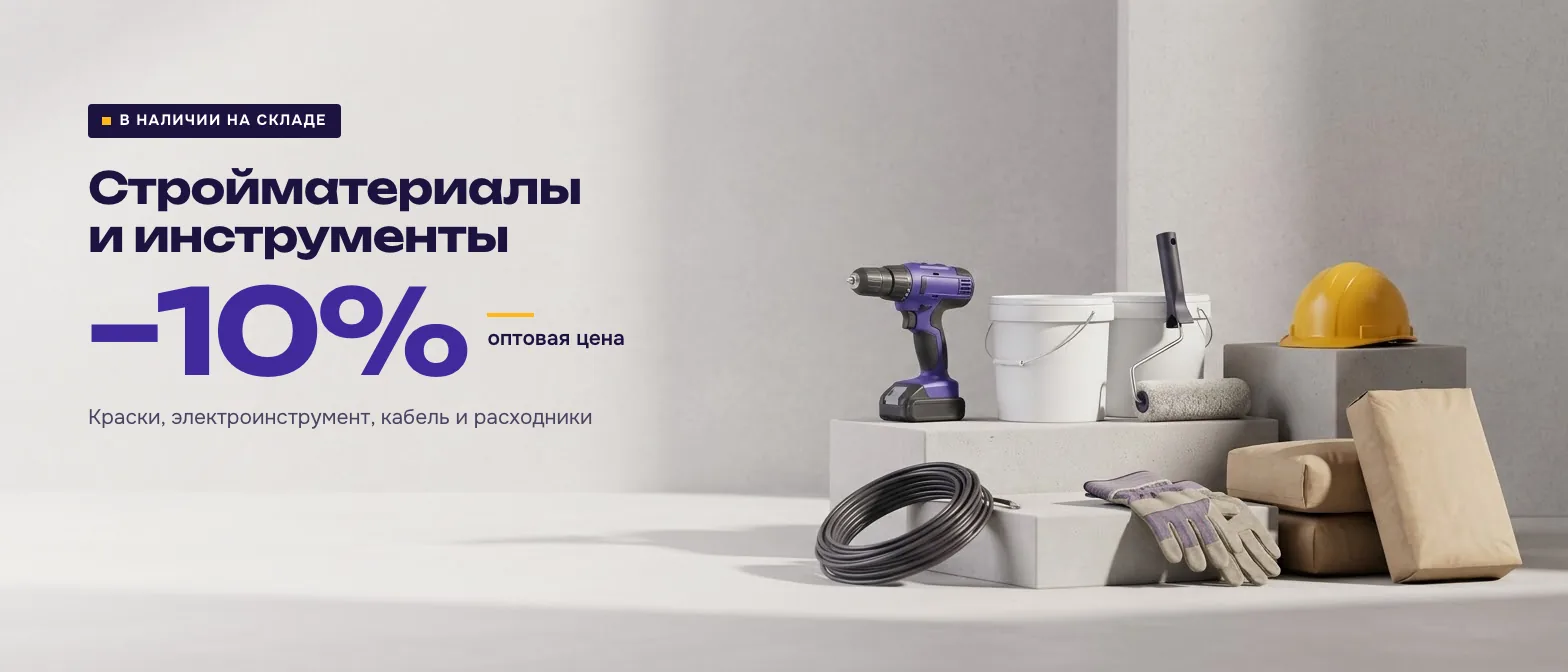
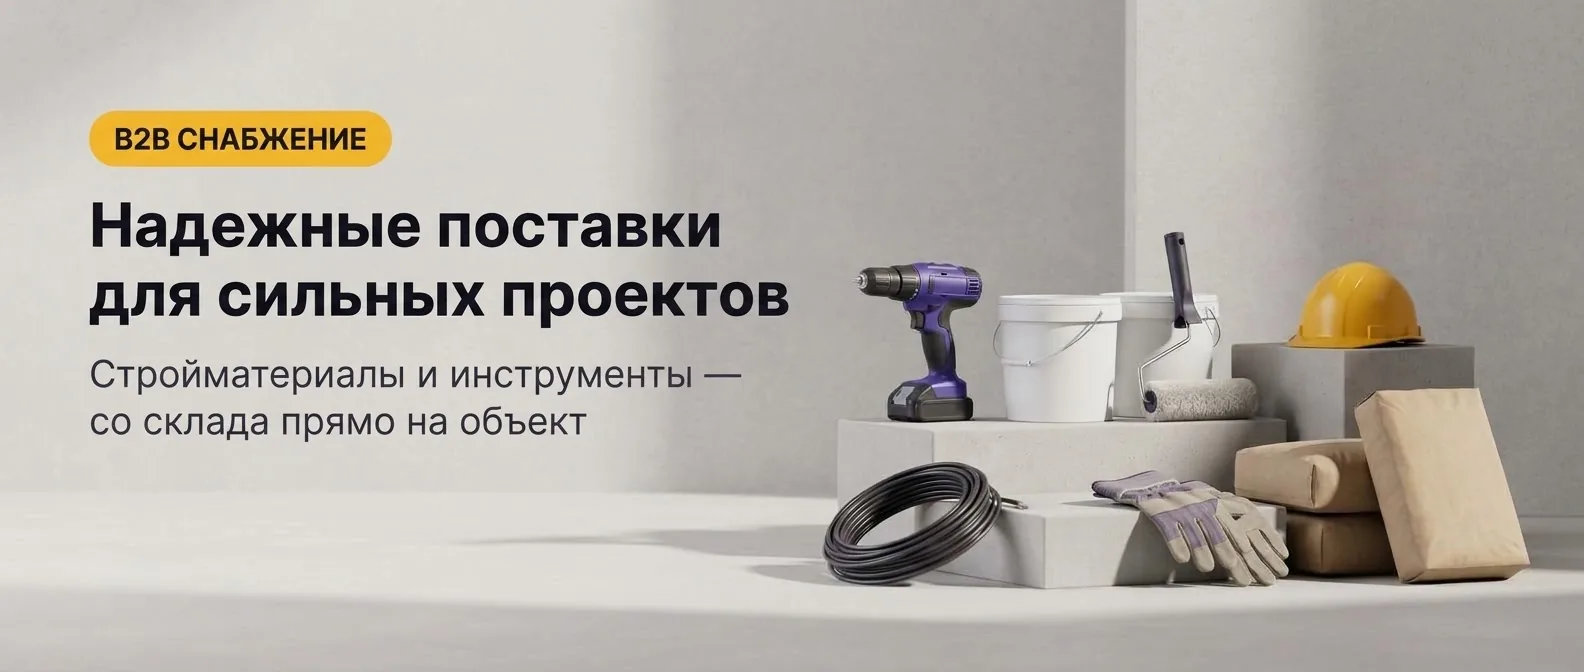
Ruscha bannerlar yangilandi, Yangi yil lentasi ruschada ham chiqadi

diff --git a/index.html b/index.html
@@ -640,8 +640,8 @@ header.hd{box-shadow:0 1px 0 var(--border-subtle)}
 .promo-cta{position:absolute;left:5.6%;bottom:13.4%;display:inline-flex;align-items:center;padding:.72em 1.3em;border-radius:12px;background:#FFB71B;color:#161324;font-weight:700;font-size:clamp(13px,1.5cqw,19px);line-height:1.2;text-decoration:none;box-shadow:0 8px 20px -8px rgba(0,0,0,.45);transition:transform .2s,box-shadow .2s,background .2s}
 .promo-cta:hover{background:#FFC444;transform:translateY(-2px);box-shadow:0 12px 24px -10px rgba(0,0,0,.55)}
 .promo-cta:focus-visible{outline:3px solid #fff;outline-offset:2px}
-/* Yangi yil slaydi: rasm ustida hilpiraydigan lenta (SVG, SMIL). Ruscha rasmda o'z yozuvi bor, shuning uchun faqat UZ da */
-.ny-ribbon{position:absolute;inset:0;width:100%;height:100%;pointer-events:none}.ny-ribbon.m{display:none}.ny-ribbon text{font-family:var(--f-display);font-weight:700;letter-spacing:2px;fill:#1C1340}html[lang="ru"] .ny-ribbon{display:none!important}
+/* Yangi yil slaydi: rasm ustida hilpiraydigan lenta (SVG, SMIL). yozuvi tilga qarab: .uz / .ru */
+.ny-ribbon{position:absolute;inset:0;width:100%;height:100%;pointer-events:none}.ny-ribbon.m{display:none}.ny-ribbon text{font-family:var(--f-display);font-weight:700;letter-spacing:2px;fill:#1C1340}.ny-ribbon .ru,html[lang="ru"] .ny-ribbon .uz{display:none}html[lang="ru"] .ny-ribbon .ru{display:inline}
 .ps-arrow{position:absolute;top:50%;z-index:2;width:46px;height:46px;margin-top:-23px;border:0;border-radius:50%;display:grid;place-items:center;background:rgba(255,255,255,.92);color:#161324;box-shadow:0 6px 18px -6px rgba(22,19,36,.35);cursor:pointer;transition:transform .2s,background .2s}
 .ps-arrow svg{width:20px;height:20px;fill:none;stroke:currentColor;stroke-width:2.4;stroke-linecap:round;stroke-linejoin:round}
 .ps-arrow.prev{left:16px}.ps-arrow.next{right:16px}
@@ -652,7 +652,7 @@ header.hd{box-shadow:0 1px 0 var(--border-subtle)}
 .ps-dots button[aria-current="true"]{width:22px;background:#412A9D}
 @media (hover:none){.ps-arrow{display:none}}
 @media (max-width:980px){.hh{gap:26px}.hh-l{display:block}.hh .ctas{margin-top:24px;justify-content:flex-start}.hh-points{justify-content:flex-start}}
-@media (max-width:640px){.hx-hero{padding:16px 0 16px}.promo-slider{aspect-ratio:4/5}.promo-cta{left:var(--ml,0);right:var(--mr,0);top:var(--mt,47%);bottom:auto;width:max-content;margin-inline:auto;padding:7px 13px;font-size:12.5px;border-radius:10px}html[lang="ru"] .promo-cta{left:6.9%;right:auto;margin:0;top:48.6%}html[lang="ru"] .ps-slide[data-n="3"] .promo-cta{top:44.8%}.ny-ribbon.d{display:none}.ny-ribbon.m{display:block}.hh .ctas .btn{flex:1 1 100%}}
+@media (max-width:640px){.hx-hero{padding:16px 0 16px}.promo-slider{aspect-ratio:4/5}.promo-cta{left:var(--ml,0);right:var(--mr,0);top:var(--mt,47%);bottom:auto;width:max-content;margin-inline:auto;padding:7px 13px;font-size:12.5px;border-radius:10px}html[lang="ru"] .promo-cta{left:var(--rml);right:auto;margin:0;top:var(--rmt)}.ny-ribbon.d{display:none}.ny-ribbon.m{display:block}.hh .ctas .btn{flex:1 1 100%}}
 
 /* ---------- Hamkorlar va KPI ---------- */
 .proof{padding:24px 0 56px}
@@ -962,21 +962,21 @@ input[type=file]::file-selector-button{font-family:var(--f-body);font-weight:700
       <div class="hh-r">
         <div class="promo-slider" id="promo" aria-roledescription="carousel" aria-label="Aksiyalar" data-i18n-aria="ps_label">
           <div class="ps-track">
-          <div class="ps-slide" data-n="4" role="group" aria-roledescription="slide" style="--mt:38.5%;--ml:9.9%;--mr:auto">
+          <div class="ps-slide" data-n="4" role="group" aria-roledescription="slide" style="--mt:38.5%;--ml:9.9%;--mr:auto;--rmt:29%;--rml:9.5%">
             <picture><source media="(max-width:640px)" srcset="img/promo-4-uz-m.webp" width="928" height="1152"><img src="img/promo-4-uz.webp" alt="Yangi yilni yangi zaxira bilan boshlang: barcha mahsulotlarga 10% chegirma." width="1584" height="672" draggable="false" fetchpriority="high"></picture>
-            <svg class="ny-ribbon d" viewBox="0 0 1584 672" preserveAspectRatio="xMidYMid slice" aria-hidden="true"><path d="M-60 58 C 220 18, 440 104, 760 56 S 1240 16, 1644 70" transform="translate(0 7)" fill="none" stroke="#A8740A" stroke-width="54" opacity=".6"><animate attributeName="d" dur="6s" repeatCount="indefinite" calcMode="spline" keySplines=".45 0 .55 1;.45 0 .55 1" values="M-60 58 C 220 18, 440 104, 760 56 S 1240 16, 1644 70;M-60 48 C 220 100, 440 20, 760 66 S 1240 104, 1644 50;M-60 58 C 220 18, 440 104, 760 56 S 1240 16, 1644 70"/></path><path id="nyr-d" d="M-60 58 C 220 18, 440 104, 760 56 S 1240 16, 1644 70" fill="none" stroke="#FFB71B" stroke-width="54"><animate attributeName="d" dur="6s" repeatCount="indefinite" calcMode="spline" keySplines=".45 0 .55 1;.45 0 .55 1" values="M-60 58 C 220 18, 440 104, 760 56 S 1240 16, 1644 70;M-60 48 C 220 100, 440 20, 760 66 S 1240 104, 1644 50;M-60 58 C 220 18, 440 104, 760 56 S 1240 16, 1644 70"/></path><text font-size="24" dominant-baseline="central"><textPath href="#nyr-d">YANGI YIL AKSIYASI • YANGI YIL AKSIYASI • YANGI YIL AKSIYASI • YANGI YIL AKSIYASI • YANGI YIL AKSIYASI • YANGI YIL AKSIYASI • YANGI YIL AKSIYASI •</textPath></text></svg>
-            <svg class="ny-ribbon m" viewBox="0 0 928 1152" preserveAspectRatio="xMidYMid slice" aria-hidden="true"><path d="M-50 62 C 140 30, 300 100, 480 58 S 760 26, 980 70" transform="translate(0 7)" fill="none" stroke="#A8740A" stroke-width="64" opacity=".6"><animate attributeName="d" dur="6s" repeatCount="indefinite" calcMode="spline" keySplines=".45 0 .55 1;.45 0 .55 1" values="M-50 62 C 140 30, 300 100, 480 58 S 760 26, 980 70;M-50 52 C 140 96, 300 28, 480 68 S 760 100, 980 50;M-50 62 C 140 30, 300 100, 480 58 S 760 26, 980 70"/></path><path id="nyr-m" d="M-50 62 C 140 30, 300 100, 480 58 S 760 26, 980 70" fill="none" stroke="#FFB71B" stroke-width="64"><animate attributeName="d" dur="6s" repeatCount="indefinite" calcMode="spline" keySplines=".45 0 .55 1;.45 0 .55 1" values="M-50 62 C 140 30, 300 100, 480 58 S 760 26, 980 70;M-50 52 C 140 96, 300 28, 480 68 S 760 100, 980 50;M-50 62 C 140 30, 300 100, 480 58 S 760 26, 980 70"/></path><text font-size="30" dominant-baseline="central"><textPath href="#nyr-m">YANGI YIL AKSIYASI • YANGI YIL AKSIYASI • YANGI YIL AKSIYASI • YANGI YIL AKSIYASI •</textPath></text></svg>
+            <svg class="ny-ribbon d" viewBox="0 0 1584 672" preserveAspectRatio="xMidYMid slice" aria-hidden="true"><path d="M-60 58 C 220 18, 440 104, 760 56 S 1240 16, 1644 70" transform="translate(0 7)" fill="none" stroke="#A8740A" stroke-width="54" opacity=".6"><animate attributeName="d" dur="6s" repeatCount="indefinite" calcMode="spline" keySplines=".45 0 .55 1;.45 0 .55 1" values="M-60 58 C 220 18, 440 104, 760 56 S 1240 16, 1644 70;M-60 48 C 220 100, 440 20, 760 66 S 1240 104, 1644 50;M-60 58 C 220 18, 440 104, 760 56 S 1240 16, 1644 70"/></path><path id="nyr-d" d="M-60 58 C 220 18, 440 104, 760 56 S 1240 16, 1644 70" fill="none" stroke="#FFB71B" stroke-width="54"><animate attributeName="d" dur="6s" repeatCount="indefinite" calcMode="spline" keySplines=".45 0 .55 1;.45 0 .55 1" values="M-60 58 C 220 18, 440 104, 760 56 S 1240 16, 1644 70;M-60 48 C 220 100, 440 20, 760 66 S 1240 104, 1644 50;M-60 58 C 220 18, 440 104, 760 56 S 1240 16, 1644 70"/></path><text class="uz" font-size="24" dominant-baseline="central"><textPath href="#nyr-d">YANGI YIL AKSIYASI • YANGI YIL AKSIYASI • YANGI YIL AKSIYASI • YANGI YIL AKSIYASI • YANGI YIL AKSIYASI • YANGI YIL AKSIYASI • YANGI YIL AKSIYASI •</textPath></text><text class="ru" font-size="24" dominant-baseline="central"><textPath href="#nyr-d">НОВОГОДНЯЯ АКЦИЯ • НОВОГОДНЯЯ АКЦИЯ • НОВОГОДНЯЯ АКЦИЯ • НОВОГОДНЯЯ АКЦИЯ • НОВОГОДНЯЯ АКЦИЯ • НОВОГОДНЯЯ АКЦИЯ • НОВОГОДНЯЯ АКЦИЯ •</textPath></text></svg>
+            <svg class="ny-ribbon m" viewBox="0 0 928 1152" preserveAspectRatio="xMidYMid slice" aria-hidden="true"><path d="M-50 62 C 140 30, 300 100, 480 58 S 760 26, 980 70" transform="translate(0 7)" fill="none" stroke="#A8740A" stroke-width="64" opacity=".6"><animate attributeName="d" dur="6s" repeatCount="indefinite" calcMode="spline" keySplines=".45 0 .55 1;.45 0 .55 1" values="M-50 62 C 140 30, 300 100, 480 58 S 760 26, 980 70;M-50 52 C 140 96, 300 28, 480 68 S 760 100, 980 50;M-50 62 C 140 30, 300 100, 480 58 S 760 26, 980 70"/></path><path id="nyr-m" d="M-50 62 C 140 30, 300 100, 480 58 S 760 26, 980 70" fill="none" stroke="#FFB71B" stroke-width="64"><animate attributeName="d" dur="6s" repeatCount="indefinite" calcMode="spline" keySplines=".45 0 .55 1;.45 0 .55 1" values="M-50 62 C 140 30, 300 100, 480 58 S 760 26, 980 70;M-50 52 C 140 96, 300 28, 480 68 S 760 100, 980 50;M-50 62 C 140 30, 300 100, 480 58 S 760 26, 980 70"/></path><text class="uz" font-size="30" dominant-baseline="central"><textPath href="#nyr-m">YANGI YIL AKSIYASI • YANGI YIL AKSIYASI • YANGI YIL AKSIYASI • YANGI YIL AKSIYASI •</textPath></text><text class="ru" font-size="30" dominant-baseline="central"><textPath href="#nyr-m">НОВОГОДНЯЯ АКЦИЯ • НОВОГОДНЯЯ АКЦИЯ • НОВОГОДНЯЯ АКЦИЯ • НОВОГОДНЯЯ АКЦИЯ •</textPath></text></svg>
             <a class="promo-cta" href="#catalog" data-dir="all" data-i18n="promo_cta">Tovarlarni ko'rish →</a>
           </div>
-          <div class="ps-slide" data-n="1" role="group" aria-roledescription="slide" style="--mt:45.5%;--ml:0;--mr:0">
+          <div class="ps-slide" data-n="1" role="group" aria-roledescription="slide" style="--mt:45.5%;--ml:0;--mr:0;--rmt:45.5%;--rml:7.4%">
             <picture><source media="(max-width:640px)" srcset="img/promo-1-uz-m.webp" width="928" height="1152"><img src="img/promo-1-uz.webp" alt="Ulgurji ta'minot: mukammal tozalik, ulgurji narxlarda. Ofis va biznesingiz uchun maishiy kimyo bir manbadan." width="1584" height="672" draggable="false" decoding="async"></picture>
             <a class="promo-cta" href="#catalog" data-dir="chem" data-i18n="promo_cta">Tovarlarni ko'rish →</a>
           </div>
-          <div class="ps-slide" data-n="2" role="group" aria-roledescription="slide" style="--mt:46%;--ml:0;--mr:0">
+          <div class="ps-slide" data-n="2" role="group" aria-roledescription="slide" style="--mt:46%;--ml:0;--mr:0;--rmt:43%;--rml:7.1%">
             <picture><source media="(max-width:640px)" srcset="img/promo-2-uz-m.webp" width="928" height="1152"><img src="img/promo-2-uz.webp" alt="B2B qurilish: kuchli loyihalar uchun ishonchli ta'minot. Qurilish mollari va asboblar ombordan to'g'ri obyektga." width="1584" height="672" draggable="false" decoding="async"></picture>
             <a class="promo-cta" href="#catalog" data-dir="tools" data-i18n="promo_cta">Tovarlarni ko'rish →</a>
           </div>
-          <div class="ps-slide" data-n="3" role="group" aria-roledescription="slide" style="--mt:42.5%;--ml:0;--mr:0">
+          <div class="ps-slide" data-n="3" role="group" aria-roledescription="slide" style="--mt:42.5%;--ml:0;--mr:0;--rmt:45.5%;--rml:9.2%">
             <picture><source media="(max-width:640px)" srcset="img/promo-3-uz-m.webp" width="928" height="1152"><img src="img/promo-3-uz.webp" alt="QQS 12%, birja: bugun buyurtma, 24 soatda eshikda. Bepul yetkazib berish va to'liq rasmiy hujjatlar." width="1584" height="672" draggable="false" decoding="async"></picture>
             <a class="promo-cta" href="#request" data-i18n="promo_cta3">Buyurtma berish →</a>
           </div>
@@ -1415,7 +1415,7 @@ toast:"Добавлено в список",theme_dark:"Тёмная тема",th
 
 /* ---------- redizayn matnlari ---------- */
 Object.assign(T.uz, {"nav_terms": "B2B shartlar", "price_btn": "Prays-list (XLSX)", "list": "Smeta", "list_sub": "tanlangan pozitsiyalar", "hero_badge": "QQS (NDS) • UzRTSB Birja • G'aznachilik", "hero_h1": "Korxonalar va qurilish obyektlari uchun kompleks ulgurji ta'minot", "hero_p": "1000+ nomdagi qurilish, maishiy kimyo va xo'jalik mollarini bitta shartnoma va bitta reys bilan yetkazib beramiz.", "hero_cta1": "Tijorat taklifi olish", "hero_cta2": "Katalogni ko'rish", "proof_eyebrow": "Bizga ishonishadi", "proof_title": "Yirik korxonalar ta'minotchisi", "proof_note": "Sanoat, qurilish, savdo va sport obyektlarini ta'minlaymiz.", "kpi1_t": "yil tajriba", "kpi2_t": "korxona mijozlarimiz", "kpi3_t": "SKU assortimentda", "kpi4_n": "24 soat", "kpi4_t": "ichida yetkazib berish", "view_cards": "Kartochkalar", "view_table": "B2B jadval", "th_sku": "Artikul", "th_name": "Mahsulot nomi", "th_unit": "O'lchov birligi", "th_price": "Ulgurji narx (QQS bilan)", "th_qty": "Miqdor", "price_cell": "Tijorat taklifida", "add": "+ Smetaga qo'shish", "added": "Smetada", "add_short": "+ Qo'shish", "added_short": "Qo'shildi", "toast": "Smetaga qo'shildi", "dr_empty": "Smeta hozircha bo'sh. Katalogdan pozitsiyalarni qo'shing.", "dr_sum": "Jami: {p} pozitsiya, {q} birlik", "dr_note": "Narxlar tijorat taklifida ko'rsatiladi", "go_request": "Menejerga yuborish", "sm_eyebrow": "Smeta bo'yicha hisob", "sm_h": "Smetangiz bormi? Vaqtingizni tejang: 30 daqiqada hisoblab beramiz.", "sm_p": "Faylni yuklang va telefon raqamingizni qoldiring. Menejer tijorat taklifini tayyorlab, siz bilan bog'lanadi.", "sm_drop": "Faylni shu yerga tashlang yoki", "sm_pick": "kompyuterdan tanlang", "sm_types": ".xlsx, .xls, .pdf, .docx, 10 MB gacha", "sm_phone": "Telefon raqamingiz", "sm_btn": "Tijorat taklifi olish", "sm_err_file": "Fayl tanlang: .xlsx, .xls, .pdf yoki .docx, 10 MB gacha", "sm_ok": "Rahmat! Smeta qabul qilindi, menejer tez orada siz bilan bog'lanadi.", "sm_fail": "Yuborib bo'lmadi. Iltimos, qo'ng'iroq qiling: +998 78 120 12 00", "how_eyebrow": "Ish tartibi", "how_title": "Shaffof ish jarayoni: 4 qadam", "how1_h": "Ariza yoki smeta", "how1_p": "Katalogdan smeta tuzing yoki tayyor smetangizni yuklang.", "how2_h": "30 daqiqada hisob-kitob", "how2_p": "Menejer tijorat taklifini tayyorlab yuboradi.", "how3_h": "Shartnoma va QQS hisob-faktura", "how3_p": "Shartnoma tuziladi, to'lov pul o'tkazish yo'li bilan amalga oshiriladi.", "how4_h": "Obyektga tezkor yetkazib berish", "how4_p": "Mahsulot obyektingizga to'liq hujjatlar bilan yetkaziladi.", "addr": "Toshkent, Chilonzor tumani, Lutfiy ko'chasi 6, 2-qavat", "xlsx_title": "SPEKTR STROY INVEST: prays-list", "xlsx_dir": "Yo'nalish", "xlsx_spec": "Tavsif", "promo_cta": "Tovarlarni ko'rish →", "promo_cta3": "Buyurtma berish →", "promo1_alt": "Ulgurji ta'minot: mukammal tozalik, ulgurji narxlarda. Ofis va biznesingiz uchun maishiy kimyo bir manbadan.", "promo4_alt": "Yangi yilni yangi zaxira bilan boshlang: barcha mahsulotlarga 10% chegirma.", "promo2_alt": "B2B qurilish: kuchli loyihalar uchun ishonchli ta'minot. Qurilish mollari va asboblar ombordan to'g'ri obyektga.", "promo3_alt": "QQS 12%, birja: bugun buyurtma, 24 soatda eshikda. Bepul yetkazib berish va to'liq rasmiy hujjatlar.", "ps_label": "Aksiyalar", "ps_prev": "Oldingi slayd", "ps_next": "Keyingi slayd", "ps_go": "{n}-slayd", "tg_open": "Telegramda yozish", "hand_cta": "30 daqiqada hisoblaymiz!", "hand_partners": "va yana 5 000+ korxona", "hand_smeta": "Excel, PDF yoki Word: farqi yo'q!", "open_now": "Hozir ish vaqti: qo'ng'iroq qiling", "closed_now": "Hozir ish vaqti emas: ariza qoldiring", "rq_next": "Ariza yuborganingizdan keyin", "rq_s1_h": "30 daqiqada tijorat taklifi", "rq_s1_p": "Menejer pozitsiyalarni hisoblab, narxlar bilan taklif yuboradi.", "rq_s2_h": "Shartnoma va QQS hisob-faktura", "rq_s2_p": "To'lov faqat pul o'tkazish yo'li bilan, shartnoma asosida.", "rq_s3_h": "24 soatda yetkazib berish", "rq_s3_p": "Mahsulot obyektingizga to'liq hujjatlar bilan yetkaziladi.", "rq_call_h": "Shoshilinch buyurtmami?", "rq_call_p": "Menejerga to'g'ridan-to'g'ri qo'ng'iroq qiling", "rq_b1": "QQS (NDS)", "rq_b2": "UzRTSB birja", "rq_b3": "G'aznachilik"});
-Object.assign(T.ru, {"nav_terms": "B2B условия", "price_btn": "Прайс-лист (XLSX)", "list": "Смета", "list_sub": "выбранные позиции", "hero_badge": "НДС • Биржа UzRTSB • Казначейство", "hero_h1": "Комплексные оптовые поставки для предприятий и строительных объектов", "hero_p": "Поставляем 1000+ наименований строительных товаров, бытовой химии и хозтоваров по одному договору и одним рейсом.", "hero_cta1": "Получить КП", "hero_cta2": "Смотреть каталог", "proof_eyebrow": "Нам доверяют", "proof_title": "Поставщик крупных предприятий", "proof_note": "Снабжаем промышленные, строительные, торговые и спортивные объекты.", "kpi1_t": "лет опыта", "kpi2_t": "предприятий-клиентов", "kpi3_t": "SKU в ассортименте", "kpi4_n": "24 часа", "kpi4_t": "срок доставки", "view_cards": "Карточки", "view_table": "B2B таблица", "th_sku": "Артикул", "th_name": "Наименование", "th_unit": "Ед. изм.", "th_price": "Оптовая цена (с НДС)", "th_qty": "Кол-во", "price_cell": "В коммерческом предложении", "add": "+ В смету", "added": "В смете", "add_short": "+ Добавить", "added_short": "Добавлено", "toast": "Добавлено в смету", "dr_empty": "Смета пока пуста. Добавьте позиции из каталога.", "dr_sum": "Итого: {p} позиций, {q} ед.", "dr_note": "Цены указываются в коммерческом предложении", "go_request": "Отправить менеджеру", "sm_eyebrow": "Расчёт по смете", "sm_h": "Есть смета? Сэкономьте время: рассчитаем за 30 минут.", "sm_p": "Загрузите файл и оставьте номер телефона. Менеджер подготовит коммерческое предложение и свяжется с вами.", "sm_drop": "Перетащите файл сюда или", "sm_pick": "выберите на компьютере", "sm_types": ".xlsx, .xls, .pdf, .docx, до 10 МБ", "sm_phone": "Ваш телефон", "sm_btn": "Получить КП", "sm_err_file": "Выберите файл: .xlsx, .xls, .pdf или .docx, до 10 МБ", "sm_ok": "Спасибо! Смета получена, менеджер скоро свяжется с вами.", "sm_fail": "Не удалось отправить. Пожалуйста, позвоните: +998 78 120 12 00", "how_eyebrow": "Порядок работы", "how_title": "Прозрачный процесс: 4 шага", "how1_h": "Заявка или смета", "how1_p": "Соберите смету в каталоге или загрузите готовую.", "how2_h": "Расчёт за 30 минут", "how2_p": "Менеджер подготовит и отправит коммерческое предложение.", "how3_h": "Договор и счёт-фактура с НДС", "how3_p": "Заключаем договор, оплата производится перечислением.", "how4_h": "Быстрая доставка на объект", "how4_p": "Доставляем на объект с полным пакетом документов.", "addr": "Ташкент, Чиланзарский район, ул. Лутфий 6, 2-й этаж", "xlsx_title": "SPEKTR STROY INVEST: прайс-лист", "xlsx_dir": "Направление", "xlsx_spec": "Описание", "promo_cta": "Смотреть товары →", "promo_cta3": "Оформить заказ →", "promo1_alt": "Бытовая химия и хозтовары: -12%, специальная цена. Хит месяца.", "promo4_alt": "Новогодняя акция: -10% на все товары, на весь каталог.", "promo2_alt": "Стройматериалы и инструменты: -10%, оптовая цена. В наличии на складе.", "promo3_alt": "Доставка по всему Ташкенту: 24 часа, бесплатно. НДС 12%, биржа UzRTSB.", "ps_label": "Акции", "ps_prev": "Предыдущий слайд", "ps_next": "Следующий слайд", "ps_go": "Слайд {n}", "tg_open": "Написать в Telegram", "hand_cta": "Рассчитаем за 30 минут!", "hand_partners": "и ещё 5 000+ компаний", "hand_smeta": "Excel, PDF или Word: без разницы!", "open_now": "Сейчас рабочее время: звоните", "closed_now": "Сейчас нерабочее время: оставьте заявку", "rq_next": "После отправки заявки", "rq_s1_h": "КП за 30 минут", "rq_s1_p": "Менеджер рассчитает позиции и пришлёт предложение с ценами.", "rq_s2_h": "Договор и счёт-фактура с НДС", "rq_s2_p": "Оплата только перечислением, на основании договора.", "rq_s3_h": "Доставка за 24 часа", "rq_s3_p": "Доставим на объект с полным пакетом документов.", "rq_call_h": "Срочный заказ?", "rq_call_p": "Позвоните менеджеру напрямую", "rq_b1": "НДС", "rq_b2": "Биржа UzRTSB", "rq_b3": "Казначейство"});
+Object.assign(T.ru, {"nav_terms": "B2B условия", "price_btn": "Прайс-лист (XLSX)", "list": "Смета", "list_sub": "выбранные позиции", "hero_badge": "НДС • Биржа UzRTSB • Казначейство", "hero_h1": "Комплексные оптовые поставки для предприятий и строительных объектов", "hero_p": "Поставляем 1000+ наименований строительных товаров, бытовой химии и хозтоваров по одному договору и одним рейсом.", "hero_cta1": "Получить КП", "hero_cta2": "Смотреть каталог", "proof_eyebrow": "Нам доверяют", "proof_title": "Поставщик крупных предприятий", "proof_note": "Снабжаем промышленные, строительные, торговые и спортивные объекты.", "kpi1_t": "лет опыта", "kpi2_t": "предприятий-клиентов", "kpi3_t": "SKU в ассортименте", "kpi4_n": "24 часа", "kpi4_t": "срок доставки", "view_cards": "Карточки", "view_table": "B2B таблица", "th_sku": "Артикул", "th_name": "Наименование", "th_unit": "Ед. изм.", "th_price": "Оптовая цена (с НДС)", "th_qty": "Кол-во", "price_cell": "В коммерческом предложении", "add": "+ В смету", "added": "В смете", "add_short": "+ Добавить", "added_short": "Добавлено", "toast": "Добавлено в смету", "dr_empty": "Смета пока пуста. Добавьте позиции из каталога.", "dr_sum": "Итого: {p} позиций, {q} ед.", "dr_note": "Цены указываются в коммерческом предложении", "go_request": "Отправить менеджеру", "sm_eyebrow": "Расчёт по смете", "sm_h": "Есть смета? Сэкономьте время: рассчитаем за 30 минут.", "sm_p": "Загрузите файл и оставьте номер телефона. Менеджер подготовит коммерческое предложение и свяжется с вами.", "sm_drop": "Перетащите файл сюда или", "sm_pick": "выберите на компьютере", "sm_types": ".xlsx, .xls, .pdf, .docx, до 10 МБ", "sm_phone": "Ваш телефон", "sm_btn": "Получить КП", "sm_err_file": "Выберите файл: .xlsx, .xls, .pdf или .docx, до 10 МБ", "sm_ok": "Спасибо! Смета получена, менеджер скоро свяжется с вами.", "sm_fail": "Не удалось отправить. Пожалуйста, позвоните: +998 78 120 12 00", "how_eyebrow": "Порядок работы", "how_title": "Прозрачный процесс: 4 шага", "how1_h": "Заявка или смета", "how1_p": "Соберите смету в каталоге или загрузите готовую.", "how2_h": "Расчёт за 30 минут", "how2_p": "Менеджер подготовит и отправит коммерческое предложение.", "how3_h": "Договор и счёт-фактура с НДС", "how3_p": "Заключаем договор, оплата производится перечислением.", "how4_h": "Быстрая доставка на объект", "how4_p": "Доставляем на объект с полным пакетом документов.", "addr": "Ташкент, Чиланзарский район, ул. Лутфий 6, 2-й этаж", "xlsx_title": "SPEKTR STROY INVEST: прайс-лист", "xlsx_dir": "Направление", "xlsx_spec": "Описание", "promo_cta": "Смотреть товары →", "promo_cta3": "Оформить заказ →", "promo1_alt": "Оптовые поставки: идеальная чистота по оптовым ценам. Бытовая химия для офиса и бизнеса из одних рук.", "promo4_alt": "Начните Новый год с новым запасом: скидка 10% на все товары.", "promo2_alt": "B2B снабжение: надежные поставки для сильных проектов. Стройматериалы и инструменты со склада прямо на объект.", "promo3_alt": "НДС 12%, биржа: заказ сегодня, доставка за 24 часа. Бесплатная доставка и полный пакет документов.", "ps_label": "Акции", "ps_prev": "Предыдущий слайд", "ps_next": "Следующий слайд", "ps_go": "Слайд {n}", "tg_open": "Написать в Telegram", "hand_cta": "Рассчитаем за 30 минут!", "hand_partners": "и ещё 5 000+ компаний", "hand_smeta": "Excel, PDF или Word: без разницы!", "open_now": "Сейчас рабочее время: звоните", "closed_now": "Сейчас нерабочее время: оставьте заявку", "rq_next": "После отправки заявки", "rq_s1_h": "КП за 30 минут", "rq_s1_p": "Менеджер рассчитает позиции и пришлёт предложение с ценами.", "rq_s2_h": "Договор и счёт-фактура с НДС", "rq_s2_p": "Оплата только перечислением, на основании договора.", "rq_s3_h": "Доставка за 24 часа", "rq_s3_p": "Доставим на объект с полным пакетом документов.", "rq_call_h": "Срочный заказ?", "rq_call_p": "Позвоните менеджеру напрямую", "rq_b1": "НДС", "rq_b2": "Биржа UzRTSB", "rq_b3": "Казначейство"});
 
 /* ---------- state ---------- */
 let lang = "uz", dir = "all", query = "", shown = 0, list = {}, view = "cards"; // list: {id: qty}

diff --git a/CLAUDE.md b/CLAUDE.md
@@ -30,8 +30,8 @@ logo.svg, logo-s.svg           Vektor logotip va "S" belgisi (index.html ichiga 
 img/catalog/SP-001..112.jpg    Katalog rasmlari, fayl nomi = mahsulot kodi
 img/hero/hero-1..3.webp        Bosh sahifa bannerlari (2400 px); hero-N-m.webp: telefon uchun kesilgan varianti
 img/dirs/<kalit>.webp          Yo'nalish kartalari fotosi (640x1147, 9:16), kalit = DIRS kaliti
-img/promo-N-uz|ru.webp         Hero promo-slayderi, N = 1..4. UZ (2026-11-25): foydalanuvchi tayyorlagan rasmlar, kompyuter 1584x672, telefon 928x1152, telefonda matn markazda (4-slayd chapda). RU: hali eski shablondan (1568x672, 928x1160). Matn rasmning o'zida, tugma HTML. Slayd tartibi: 4 (Yangi yil), 1, 2, 3. Telefonda tugma joyi slaydning --mt/--ml/--mr o'zgaruvchisida (UZ uchun); RU uchun CSS'da html[lang="ru"] .promo-cta. 4-slaydda hilpiraydigan lenta: .ny-ribbon (SVG + SMIL, faqat UZ)
-tools/banner/                  Banner yasash: banner.html (shablon va UZ/RU matnlar, BANNERS), bg/N-d|m.jpg (Gemini fonlari, yozuvsiz), render.py (Chrome + Pillow, img/promo-* ni yozadi va telefon uchun --mt/--ml ni chiqaradi). Aksiya o'zgarsa: matnni BANNERS da tuzating, kerak bo'lsa fonni almashtiring, `python3 tools/banner/render.py N`. Hozir faqat RU bannerlar shu shablondan; UZ bannerlar tashqarida tayyorlanadi
+img/promo-N-uz|ru.webp         Hero promo-slayderi, N = 1..4. Rasmlar foydalanuvchi tayyorlagan (2026-11-25): kompyuter 1584x672, telefon 928x1152. UZ telefonda matn markazda (4-slayd chapda), RU telefonda chapda. promo-1-ru.webp (kompyuter) hali eski shablondan, yangisi kutilmoqda. Matn rasmning o'zida, tugma HTML. Slayd tartibi: 4 (Yangi yil), 1, 2, 3. Telefonda tugma joyi slayd style'ida: UZ --mt/--ml/--mr, RU --rmt/--rml. 4-slaydda hilpiraydigan lenta: .ny-ribbon (SVG + SMIL, yozuvi .uz / .ru)
+tools/banner/                  Banner yasash: banner.html (shablon va UZ/RU matnlar, BANNERS), bg/N-d|m.jpg (Gemini fonlari, yozuvsiz), render.py (Chrome + Pillow, img/promo-* ni yozadi va telefon uchun --mt/--ml ni chiqaradi). Aksiya o'zgarsa: matnni BANNERS da tuzating, kerak bo'lsa fonni almashtiring, `python3 tools/banner/render.py N`. Hozir ishlatilmaydi (bannerlar tashqarida tayyorlanadi), faqat promo-1-ru.webp shu shablondan qolgan
 fonts/*.woff2                  Unbounded, Onest (variable) va Caveat (700, qisqartirilgan): lotin + kirill. @font-face index.html <style> boshida
 img/partners/*.webp, havas.svg  Hamkorlar logotiplari (balandligi 120 px, shaffof fon). Lentada monoxrom, hover'da asl rang. `PARTNERS` da oq logotip uchun `invert` ("alpha" yoki "bg"), ochiq rangli uchun `tone:"light"`
 supabase/schema.sql            profiles, orders jadvallari, RLS, ro'yxatdan o'tish trigger'i
